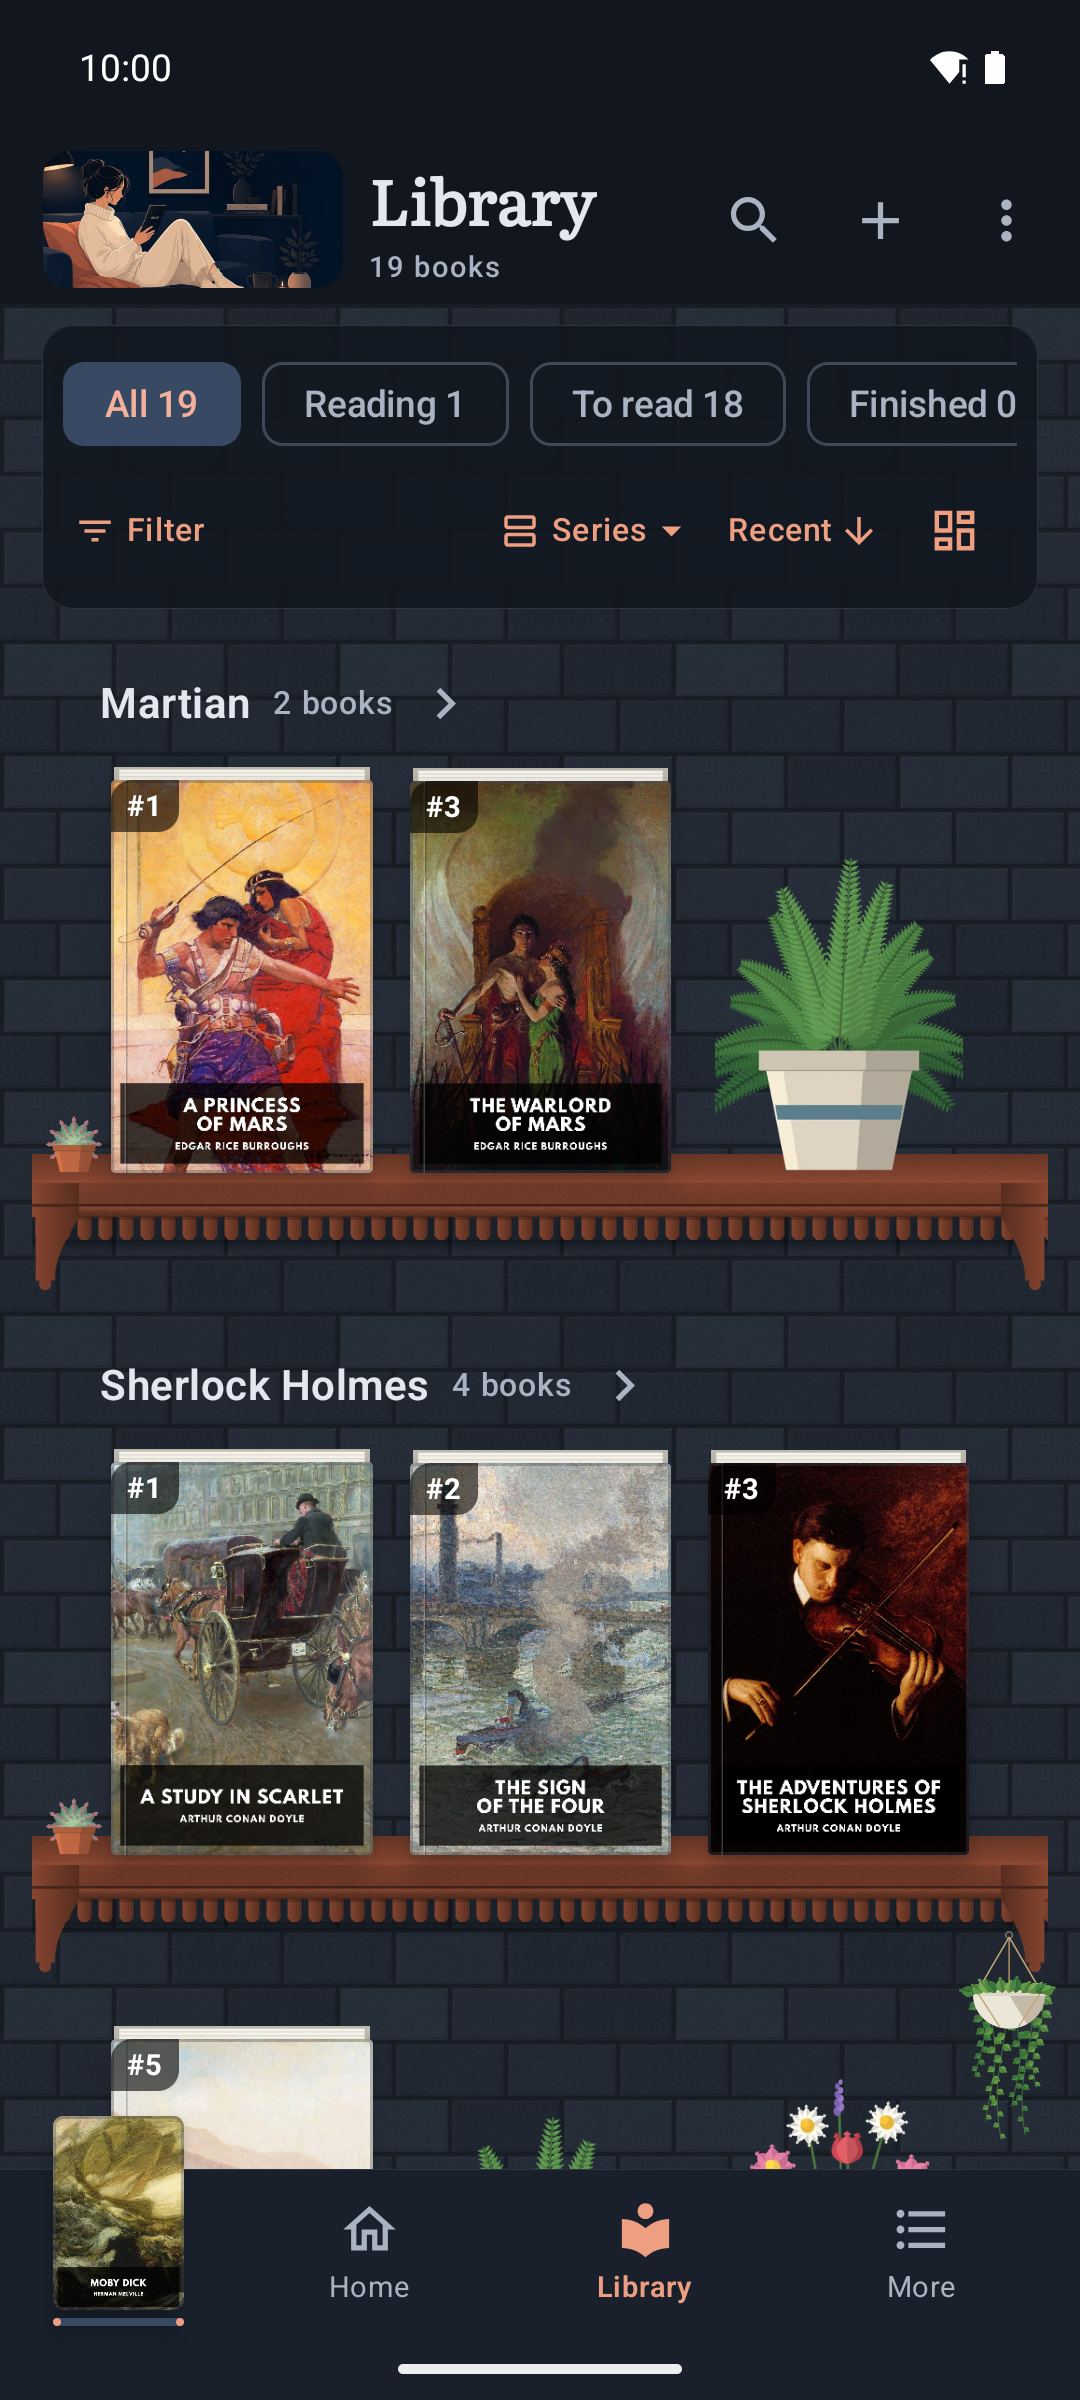
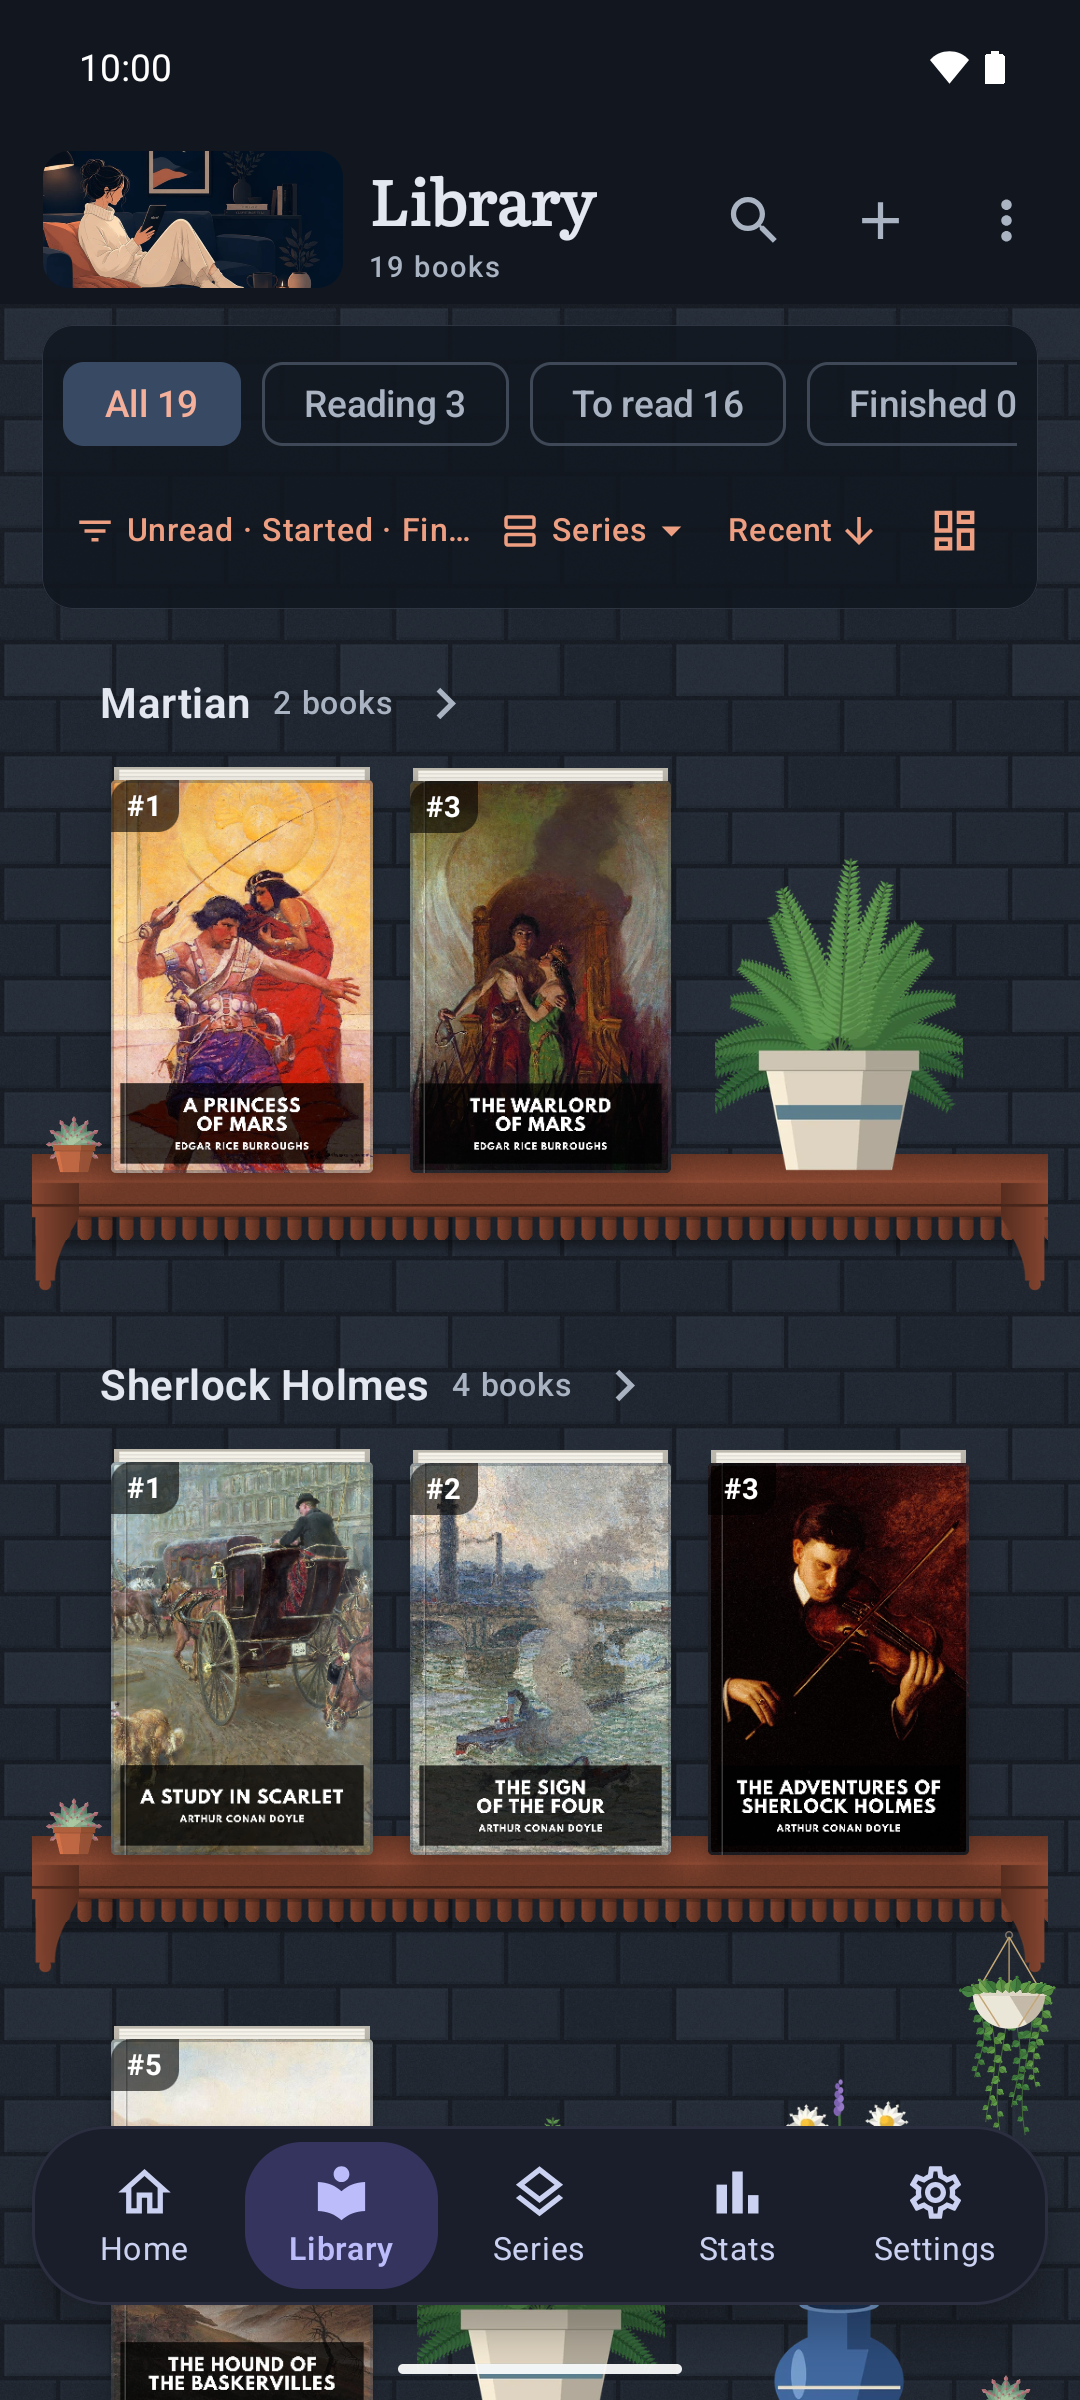
docs: Open the README on the dark Home and Library screens
The first pictures are now the Home and Library tabs in the dark theme.
hack/screenshots --hero retakes just those two, and the status bar shows
a working Wi-Fi icon.

diff --git a/README.md b/README.md
@@ -22,23 +22,31 @@ An open-source ebook reader for Android, and a client for [calibre-web](https://
 
 <table>
   <tr>
-    <td width="33%"><img src="docs/screenshots/01-library.png" alt="Library"></td>
+    <td width="50%"><img src="docs/screenshots/30-home-dark.png" alt="Home: the book you are reading, your shelves and a quote from your reading"></td>
+    <td width="50%"><img src="docs/screenshots/10-library-dark.png" alt="Library: covers standing on shelves, one shelf per series"></td>
+  </tr>
+  <tr>
+    <td align="center"><sub>Home: pick up where you left off.</sub></td>
+    <td align="center"><sub>Library: the shelf, sorted by what you are currently reading.</sub></td>
+  </tr>
+</table>
+
+<table>
+  <tr>
     <td width="33%"><img src="docs/screenshots/02-reading.png" alt="Reading"></td>
     <td width="33%"><img src="docs/screenshots/24-read-aloud.png" alt="Read aloud"></td>
+    <td width="33%"><img src="docs/screenshots/14-series-detail.png" alt="One series"></td>
   </tr>
   <tr>
-    <td align="center"><sub>The shelf, sorted by what you are currently reading.</sub></td>
     <td align="center"><sub>Distraction-free page with notes and bookmarks.</sub></td>
     <td align="center"><sub>Read aloud with device voices or your own speech server.</sub></td>
+    <td align="center"><sub>Reading order, progress, and which volumes are missing.</sub></td>
   </tr>
   <tr>
-    <td><img src="docs/screenshots/14-series-detail.png" alt="One series"></td>
     <td><img src="docs/screenshots/25-companion-profile.png" alt="Reading companion character profile with source passages"></td>
     <td><img src="docs/screenshots/26-codex-relationships.png" alt="Companion map of character relationships across chapters"></td>
-    <td></td>
   </tr>
   <tr>
-    <td align="center"><sub>Reading order, progress, and which volumes are missing.</sub></td>
     <td align="center"><sub>Character profiles grounded in earlier passages.</sub></td>
     <td align="center"><sub>See which characters appear together across chapters.</sub></td>
   </tr>

diff --git a/docs/SCREENSHOTS.md b/docs/SCREENSHOTS.md
@@ -142,12 +142,14 @@ guessed about reading you did before Liseur arrived.
 
 <table>
   <tr>
-    <td width="33%"><img src="screenshots/10-library-dark.png" alt="Library, dark"></td>
-    <td width="33%"><img src="screenshots/11-reading-dark.png" alt="Reading, dark"></td>
-    <td width="33%"><img src="screenshots/17-empty-library-dark.png" alt="An empty library, dark"></td>
+    <td width="25%"><img src="screenshots/30-home-dark.png" alt="Home, dark"></td>
+    <td width="25%"><img src="screenshots/10-library-dark.png" alt="Library, dark"></td>
+    <td width="25%"><img src="screenshots/11-reading-dark.png" alt="Reading, dark"></td>
+    <td width="25%"><img src="screenshots/17-empty-library-dark.png" alt="An empty library, dark"></td>
   </tr>
   <tr>
-    <td align="center"><sub>The shelf follows the system theme.</sub></td>
+    <td align="center"><sub>Home follows the system theme.</sub></td>
+    <td align="center"><sub>So does the shelf.</sub></td>
     <td align="center"><sub>The reading theme does not have to: Light, Sepia, Dark and OLED Black are the book's own.</sub></td>
     <td align="center"><sub>A new shelf, after dark.</sub></td>
   </tr>

diff --git a/DEVELOPER.md b/DEVELOPER.md
@@ -817,9 +817,10 @@ make feature-graphic        # fastlane featureGraphic.png per locale, from promo
 - `hack/screenshots-stale` (`make screenshots-stale`) lists the pictures
   committed before the last commit that touched `app/src/main`, marking the
   hand-captured ones. Informational; `--strict` fails instead.
-- Published images are light theme only. `11-reading-dark` and
-  `17-empty-library-dark` are captured but not filed with fastlane or the
-  README.
+- Published images are light theme only, except the README's first pair,
+  `30-home-dark` and `10-library-dark`, which `hack/screenshots --hero`
+  retakes on its own. `11-reading-dark` and `17-empty-library-dark` are
+  captured but not filed with fastlane or the README.
 - Sign out of calibre-web first unless the server holds only publishable
   books. The script never writes to it.
 
